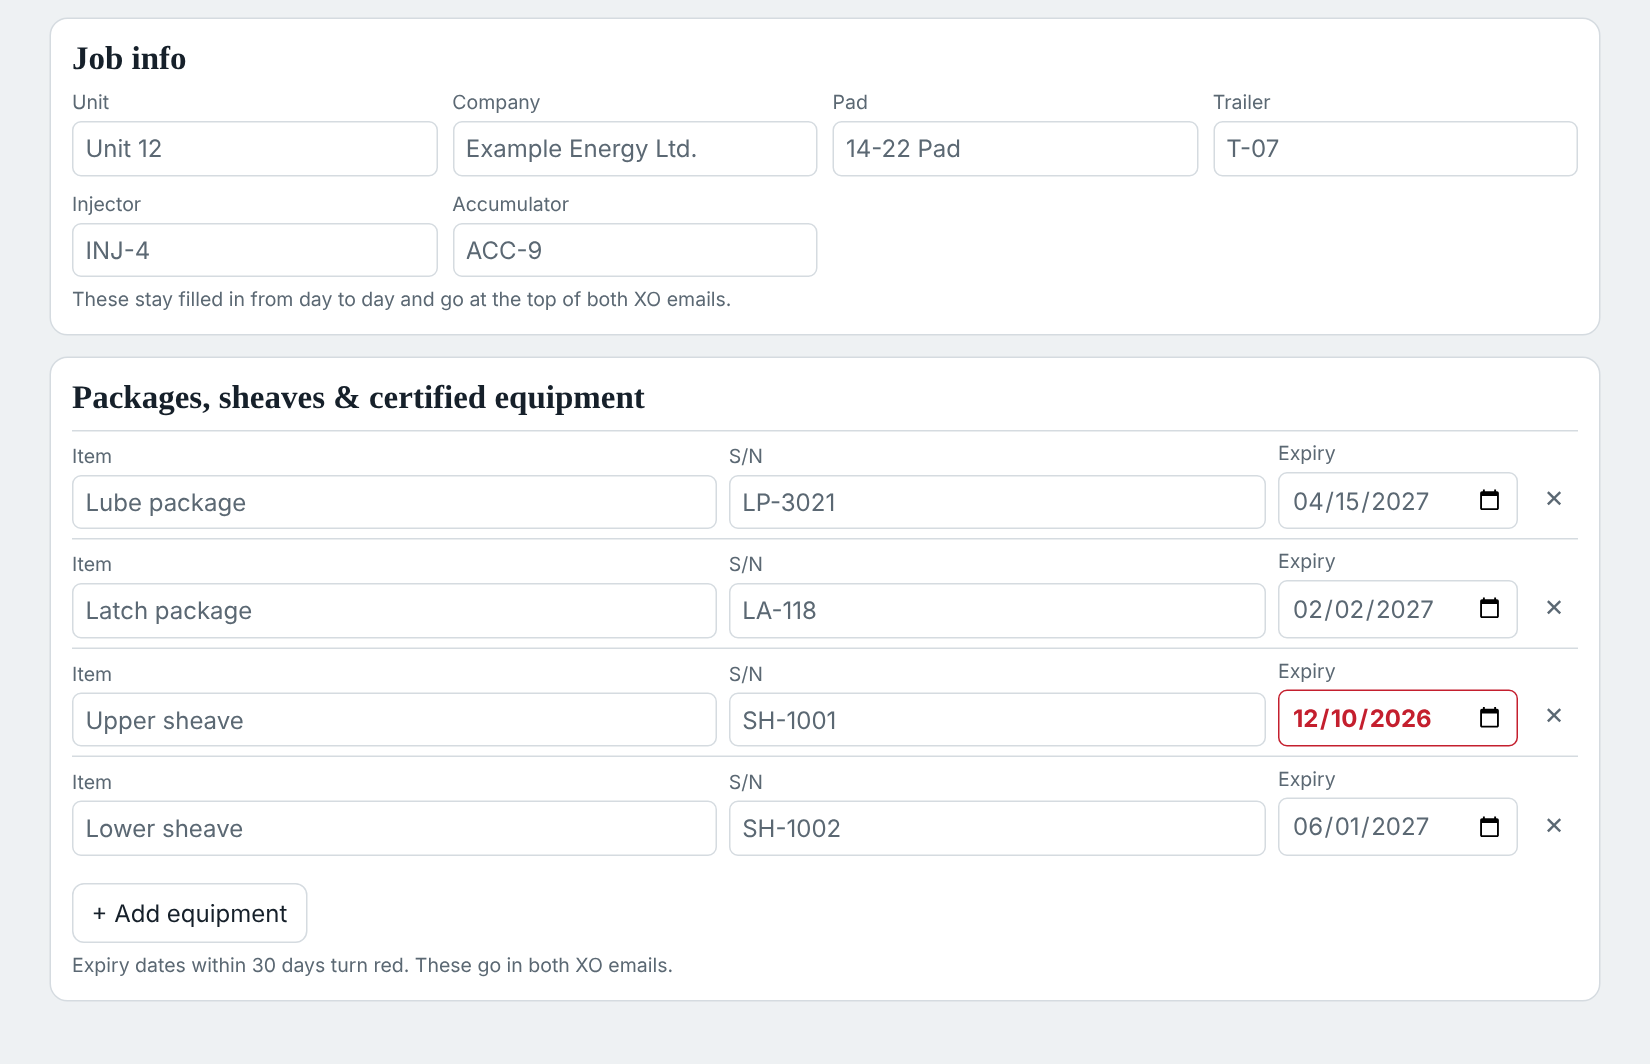
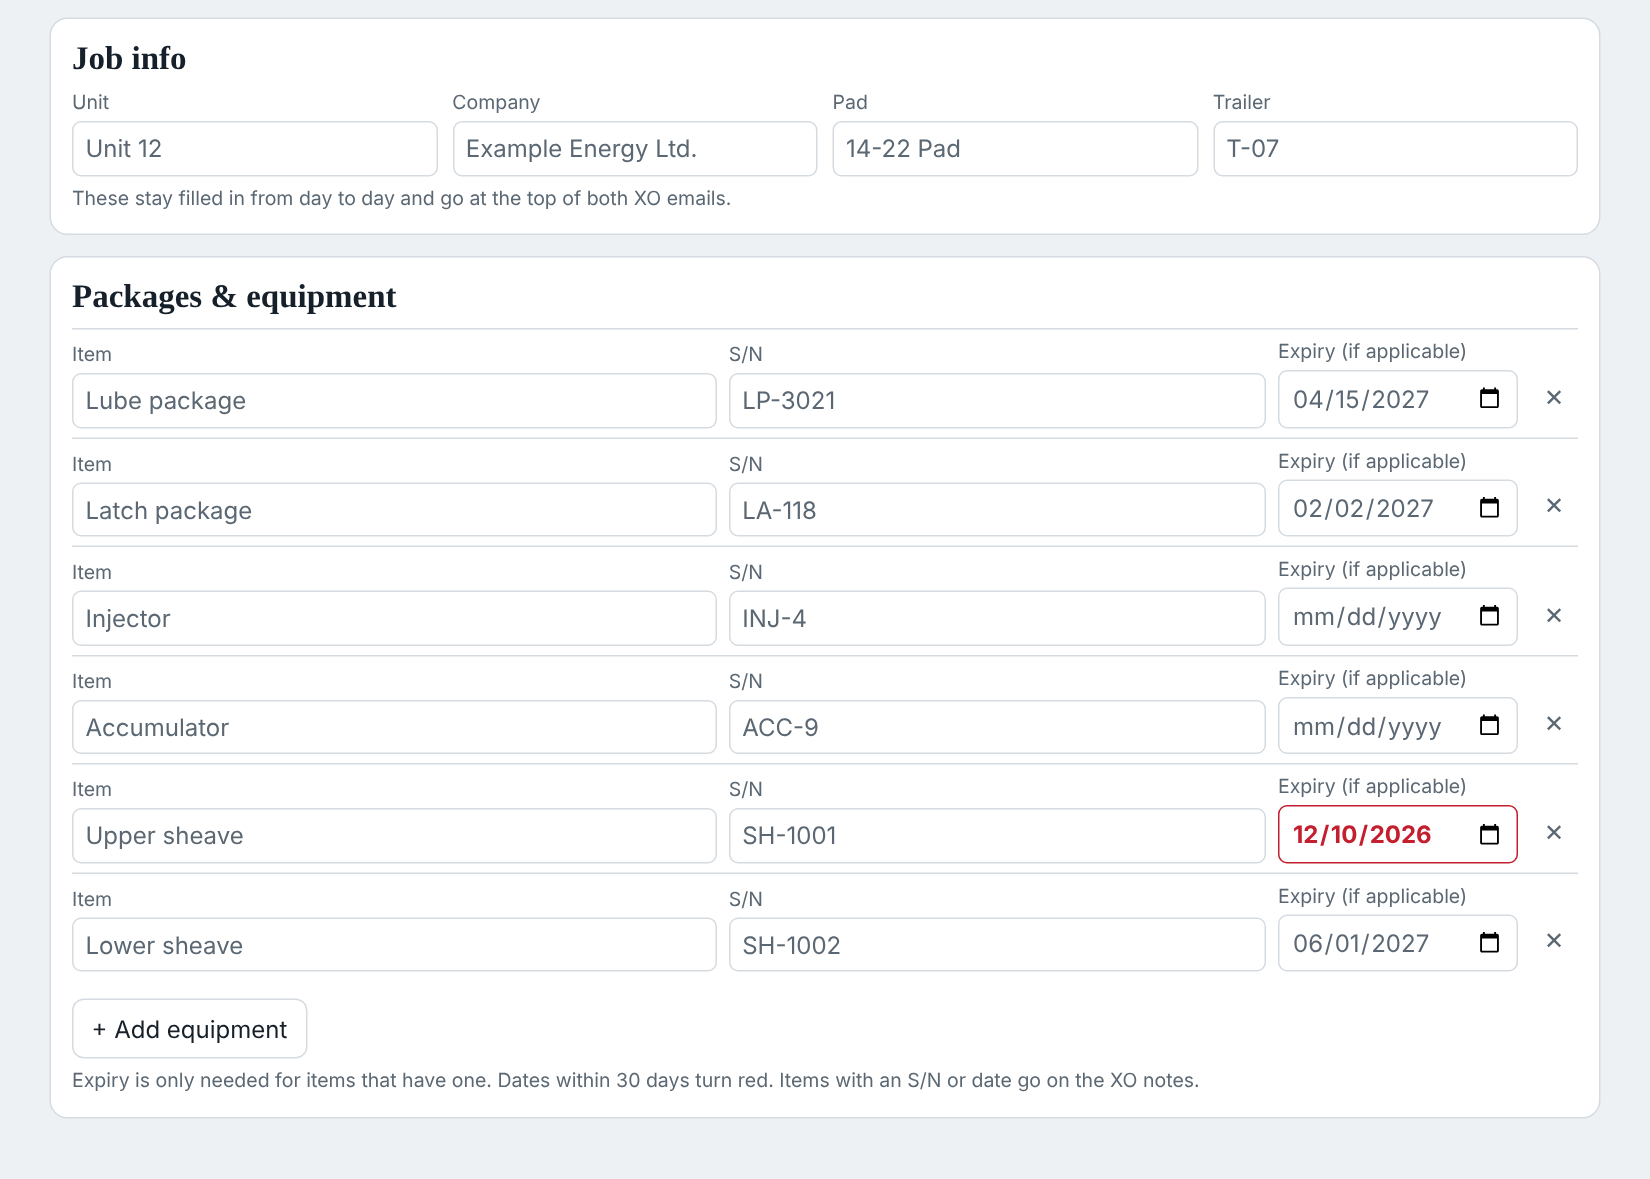
Move injector and accumulator into Packages & equipment
Injector and Accumulator are now rows in the equipment list (existing
values carry over). Expiry is labelled 'if applicable'. Section renamed
Packages & equipment in the app, XO notes and PDF. Help updated.

Claude-Session: https://claude.ai/code/session_01VgqTXvRicyLPoHF4HXncHg

diff --git a/index.html b/index.html
@@ -231,15 +231,14 @@ textarea{width:100%;min-height:120px;font:13px/1.3 ui-monospace,monospace;border
     <div class="form">
       <label>Unit<input data-n="unit"></label><label>Company<input data-n="company"></label><label>Pad<input data-n="pad"></label>
       <label>Trailer<input data-n="trailer"></label>
-                  <label>Injector<input data-n="injector"></label><label>Accumulator<input data-n="accum"></label>
     </div>
     <p class="hint">These stay filled in from day to day and go at the top of both XO emails.</p>
   </section>
   <section class="card">
-    <div class="head"><h2>Packages, sheaves &amp; certified equipment</h2></div>
+    <div class="head"><h2>Packages &amp; equipment</h2></div>
     <div id="jeList"></div>
     <div class="row" style="justify-content:flex-start"><button id="addJe">+ Add equipment</button></div>
-    <p class="hint">Expiry dates within 30 days turn red. These go in both XO emails.</p>
+    <p class="hint">Expiry is only needed for items that have one. Dates within 30 days turn red. Items with an S/N or date go on the XO notes.</p>
   </section>
 </main>
 
@@ -335,7 +334,11 @@ if(!S||!S.wells)S=fresh();
 const XO_TO='pdreports@bonnettsenergy.com',TECH_TO='cwingie@bonnettsenergy.com; kagunias@bonnettsenergy.com';
 const toList=t=>(t||'').split(/[;,\s]+/).filter(Boolean).map(encodeURIComponent).join(',').replace(/%40/g,'@');
 const norm=()=>{S.runs=S.runs||[];S.notes=S.notes||{};if(!S.notes.to)S.notes.to=XO_TO;if(!S.techTo)S.techTo=TECH_TO;if(!S.lists)S.lists={weekly:WEEKLY0.map((t,i)=>({id:'w'+i,t})),daily:DAILY0.map((t,i)=>({id:'d'+i,t}))};if(!S.notes.jobEq)S.notes.jobEq=[{id:uid(),name:'Upper sheave',sn:'',exp:''},{id:uid(),name:'Lower sheave',sn:'',exp:''}];
-  if(!S.notes.pkgMoved){const add=[];[['Lube package','lube','lubeExp'],['Latch package','latch','latchExp']].forEach(([nm,k,ke])=>{if(!S.notes.jobEq.some(e=>e.name.toLowerCase()===nm.toLowerCase()))add.push({id:uid(),name:nm,sn:S.notes[k]||'',exp:S.notes[ke]||''});delete S.notes[k];delete S.notes[ke]});S.notes.jobEq.unshift(...add);S.notes.pkgMoved=true}S.notes.sh=S.notes.sh||{D:{checks:S.notes.checks||{},ops:S.notes.ops||''},N:{checks:{},ops:''}};if(S.notes.crew&&!S.notes.sh.D.crew){S.notes.sh.D.crew=S.notes.crew}delete S.notes.crew;delete S.notes.checks;delete S.notes.ops;S.history=S.history||[];if(!S.shift)S.shift='D'};
+  if(!S.notes.pkgMoved){const add=[];[['Lube package','lube','lubeExp'],['Latch package','latch','latchExp']].forEach(([nm,k,ke])=>{if(!S.notes.jobEq.some(e=>e.name.toLowerCase()===nm.toLowerCase()))add.push({id:uid(),name:nm,sn:S.notes[k]||'',exp:S.notes[ke]||''});delete S.notes[k];delete S.notes[ke]});S.notes.jobEq.unshift(...add);S.notes.pkgMoved=true}
+  if(!S.notes.injMoved){const at=Math.max(...S.notes.jobEq.map((e,k)=>/package/i.test(e.name)?k:-1))+1;const add=[];
+    [['Injector','injector'],['Accumulator','accum']].forEach(([nm,k])=>{if(!S.notes.jobEq.some(e=>e.name.toLowerCase()===nm.toLowerCase()))add.push({id:uid(),name:nm,sn:S.notes[k]||'',exp:''});delete S.notes[k]});
+    S.notes.jobEq.splice(at>0?at:S.notes.jobEq.length,0,...add);S.notes.injMoved=true}
+  S.notes.sh=S.notes.sh||{D:{checks:S.notes.checks||{},ops:S.notes.ops||''},N:{checks:{},ops:''}};if(S.notes.crew&&!S.notes.sh.D.crew){S.notes.sh.D.crew=S.notes.crew}delete S.notes.crew;delete S.notes.checks;delete S.notes.ops;S.history=S.history||[];if(!S.shift)S.shift='D'};
 norm();
 S.wells.forEach(w=>{w.last=Math.floor(+w.last||0)});
 {const OLD={"#e53935": "#ff0000", "#fb8c00": "#ffa500", "#fdd835": "#ffff00", "#43a047": "#009900", "#00897b": "#008080", "#1e88e5": "#0000ff", "#3949ab": "#000080", "#8e24aa": "#800080", "#d81b60": "#ffc0cb", "#6d4c41": "#a52a2a", "#757575": "#595959", "#212121": "#000080"};S.wells.forEach(w=>{if(OLD[w.color])w.color=OLD[w.color]})}
@@ -450,7 +453,7 @@ $('newday').onclick=async()=>{const tot=S.wells.reduce((a,w)=>a+cnt(w.stages),0)
 $('newjob').onclick=()=>{$('dlgMore').close();$('jKeepCounts').checked=false;$('dlgJob').showModal()};
 $('jNo').onclick=()=>$('dlgJob').close();
 $('jYes').onclick=()=>{const keep=$('jKeepCounts').checked;
-  change(()=>{const f=fresh();S.wells=f.wells;S.history=[];const names=(S.notes.jobEq||[]).map(e=>({id:uid(),name:e.name,sn:'',exp:''}));S.notes={jobEq:names,pkgMoved:true};norm();migrateLog();S.equipment.forEach(e=>{if(!keep)e.count=0;e.serial='';e.note=''})});
+  change(()=>{const f=fresh();S.wells=f.wells;S.history=[];const names=(S.notes.jobEq||[]).map(e=>({id:uid(),name:e.name,sn:'',exp:''}));S.notes={jobEq:names,pkgMoved:true,injMoved:true};norm();migrateLog();S.equipment.forEach(e=>{if(!keep)e.count=0;e.serial='';e.note=''})});
   fillNotes();$('dlgJob').close();toast('New job started')};
 $('undo').onclick=()=>{const p=undo.pop();if(!p)return;S=JSON.parse(p);save();render();fillNotes();toast('Undone')};
 document.addEventListener('keydown',e=>{if((e.ctrlKey||e.metaKey)&&e.key==='z'&&!/INPUT|TEXTAREA/.test(document.activeElement.tagName)){e.preventDefault();$('undo').click()}});
@@ -492,8 +495,8 @@ const dueSoon=d=>d&&(new Date(d+'T12:00')-new Date())/864e5<30;
 function renderJe(){$('jeList').innerHTML=N(S).jobEq.map((e,i)=>`<div class="je ${dueSoon(e.exp)?'due':''}" data-i="${i}">
   <label class="nm2">Item<input data-je="name" value="${esc(e.name)}"></label>
   <label>S/N<input data-je="sn" value="${esc(e.sn)}"></label>
-  <label>Expiry<input type="date" data-je="exp" value="${esc(e.exp)}"></label>
-  <button class="x" data-je-del title="Remove" aria-label="Remove ${esc(e.name)}">✕</button></div>`).join('')||'<p class="hint">No items. Add packages, sheaves or other certified gear.</p>'}
+  <label>Expiry (if applicable)<input type="date" data-je="exp" value="${esc(e.exp)}"></label>
+  <button class="x" data-je-del title="Remove" aria-label="Remove ${esc(e.name)}">✕</button></div>`).join('')||'<p class="hint">No items. Add packages, sheaves or other equipment.</p>'}
 $('jeList').addEventListener('input',ev=>{const t=ev.target;if(!t.dataset.je)return;const e=N(S).jobEq[t.closest('.je').dataset.i];e[t.dataset.je]=t.value;save();renderNotes();
   if(t.dataset.je==='exp')t.closest('.je').classList.toggle('due',!!dueSoon(t.value))});
 $('jeList').addEventListener('click',async ev=>{const b=ev.target.closest('[data-je-del]');if(!b)return;const i=+b.closest('.je').dataset.i,e=N(S).jobEq[i];
@@ -523,7 +526,6 @@ function notesText(){const n=N(S),c=SD().checks,L=[];
   L.push('XO NOTES - '+today()+' - '+SH[VS]);
   L.push('Company: '+(n.company||''),'Pad: '+(n.pad||''),'Crew: '+(SD().crew||''),'');
   L.push('Unit: '+(n.unit||'')+'    Trailer: '+(n.trailer||''));
-  L.push('Injector: '+(n.injector||'')+'    Accumulator: '+(n.accum||''));
   (n.jobEq||[]).forEach(e=>{if(e.sn||e.exp)L.push(e.name+': S/N '+(e.sn||'-')+(e.exp?' (exp '+fmtD(e.exp)+')':''))});L.push('');
   L.push('STAGES - '+SH[VS]+': '+S.wells.reduce((a,w)=>a+cnt(shiftStages(w)),0)+'    RUNS: '+SD().runs);
   S.wells.forEach(w=>{const st=shiftStages(w);L.push(w.name+(w.color?' ('+(WCOLORS.find(c=>c[0]===w.color)||['',''])[1]+')':'')+': this shift '+cnt(st)+(st.length?' ('+st.map(s=>s.num+(s.note?' - '+s.note:'')).join(', ')+')':'')+' | completed '+done(w)+(w.total?' of '+w.total+' | remaining '+rem(w):''))});
@@ -549,9 +551,8 @@ function buildDoc(){const n=N(S),c=SD().checks,e=esc,box=v=>v?'☒':'☐';
   <table><tr><td class="k">Date</td><td>${e(today())}</td><td class="k">Shift</td><td>${box(VS==='D')} Days &nbsp; ${box(VS==='N')} Nights</td></tr>
   <tr><td class="k">Company</td><td>${e(n.company)}</td><td class="k">Pad</td><td>${e(n.pad)}</td></tr>
   <tr><td class="k">Unit</td><td>${e(n.unit)}</td><td class="k">Trailer</td><td>${e(n.trailer)}</td></tr>
-  <tr><td class="k">Injector</td><td>${e(n.injector)}</td><td class="k">Accumulator</td><td>${e(n.accum)}</td></tr>
   <tr><td class="k">Crew</td><td colspan="3">${e(SD().crew)}</td></tr></table>
-  ${eq.length?`<h2>Packages, sheaves &amp; certified equipment</h2><table><tr><th>Item</th><th>S/N</th><th>Expiry</th></tr>${eq.map(x=>`<tr><td>${e(x.name)}</td><td>${e(x.sn)}</td><td class="${dueSoon(x.exp)?'ex':''}">${e(fmtD(x.exp))}</td></tr>`).join('')}</table>`:''}
+  ${eq.length?`<h2>Packages &amp; equipment</h2><table><tr><th>Item</th><th>S/N</th><th>Expiry</th></tr>${eq.map(x=>`<tr><td>${e(x.name)}</td><td>${e(x.sn)}</td><td class="${dueSoon(x.exp)?'ex':''}">${e(fmtD(x.exp))}</td></tr>`).join('')}</table>`:''}
   <h2>Wells</h2><table><tr><th>Well</th><th>This shift</th><th class="r">Total stages</th><th class="r">Completed</th><th class="r">Remaining</th></tr>
   ${S.wells.map(w=>{const st=shiftStages(w);return`<tr><td>${chip(w)}</td><td>${cnt(st)}${st.length?' &nbsp;('+st.map(x=>e(x.num)+(x.note?' - '+e(x.note):'')).join(', ')+')':''}</td><td class="r">${e(w.total||'')}</td><td class="r">${done(w)}</td><td class="r"><b>${rem(w)}</b></td></tr>`}).join('')}</table>
   <div class="tot"><div>Stages this shift<b>${S.wells.reduce((a,w)=>a+cnt(shiftStages(w)),0)}</b></div><div>Runs this shift<b>${SD().runs}</b></div></div>

diff --git a/help.html b/help.html
@@ -97,10 +97,10 @@ footer{color:var(--mute);font-size:14px;padding:10px 0 40px}
 <section id="job">
   <h2>Job Info tab</h2>
   <p>Fill this in once at the start of a job. It stays until you start a <b>New job</b>.</p>
-  <figure><img src="help/job-info.png" alt="Job Info tab with unit, company, pad and certified equipment"></figure>
+  <figure><img src="help/job-info.png" alt="Job Info tab with unit, company, pad and the packages and equipment list"></figure>
   <ul>
     <li><b>Unit, Company, Pad</b> make up the email subject, for example "Unit 12 Example Energy Ltd. 14-22 Pad XO Notes".</li>
-    <li><b>Packages, sheaves &amp; certified equipment</b>: S/N and expiry for the lube package, latch package and sheaves. <span class="key">+ Add equipment</span> adds a row; <b>✕</b> removes one.</li>
+    <li><b>Packages &amp; equipment</b>: S/N for the lube package, latch package, injector, accumulator and sheaves, and an expiry date <b>if it has one</b>. <span class="key">+ Add equipment</span> adds a row; <b>✕</b> removes one.</li>
     <li>An expiry date <b>within 30 days turns red</b>, here and on the printed XO notes.</li>
     <li>Only items with an S/N or date filled in go on the XO notes.</li>
   </ul>

diff --git a/sw.js b/sw.js
@@ -1,7 +1,7 @@
 // White Board offline support.
 // Always tries the internet first so updates show up right away,
 // and falls back to the saved copy when there's no signal.
-const CACHE='whiteboard-v4';
+const CACHE='whiteboard-v5';
 const FILES=['./','index.html','manifest.webmanifest','icon-192.png','icon-512.png','icon-maskable.png','logo.jpg'];
 self.addEventListener('install',e=>{e.waitUntil(caches.open(CACHE).then(c=>c.addAll(FILES)));self.skipWaiting()});
 self.addEventListener('activate',e=>{e.waitUntil(caches.keys().then(k=>Promise.all(k.filter(x=>x!==CACHE).map(x=>caches.delete(x)))).then(()=>self.clients.claim()))});
